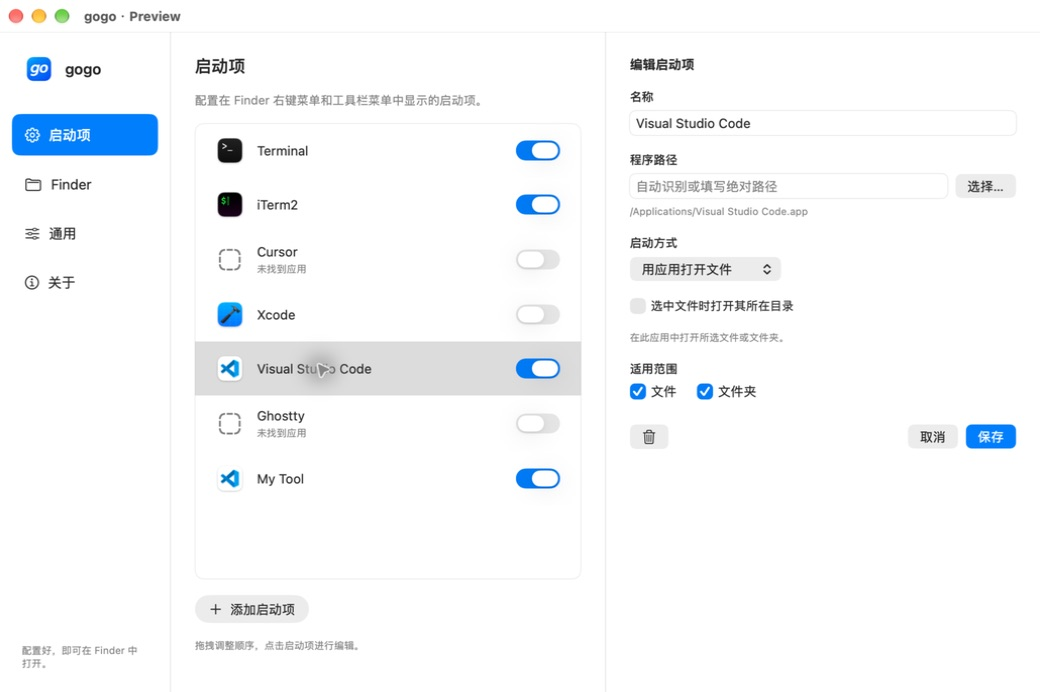
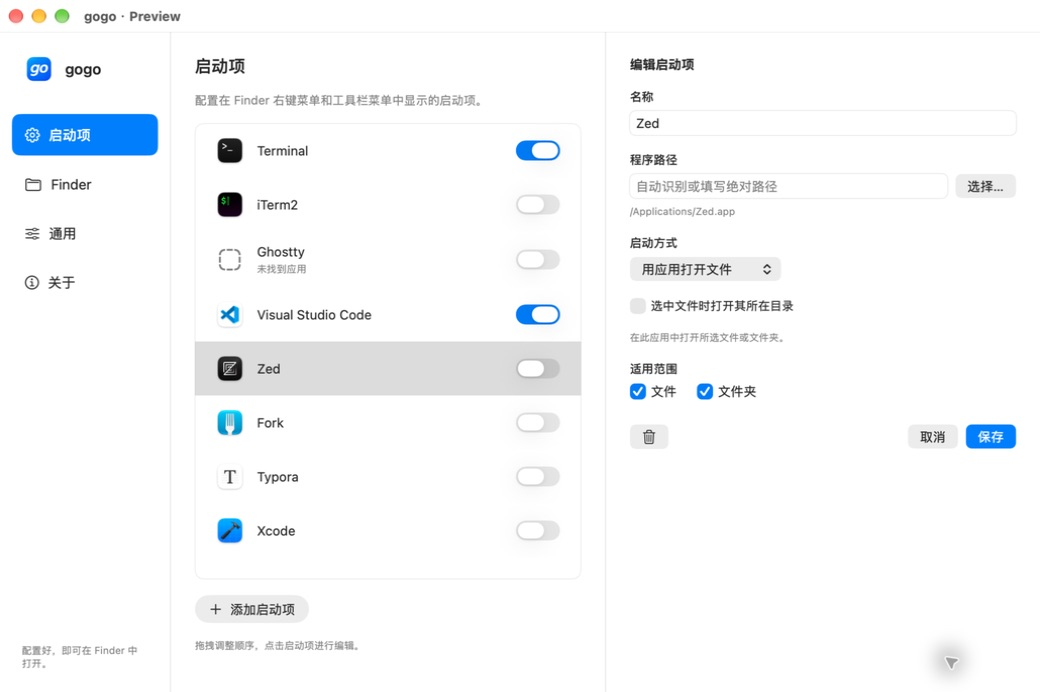
Add Zed Fork and Typora presets and refresh README screenshots

diff --git a/Sources/GogoCore/Configuration.swift b/Sources/GogoCore/Configuration.swift
@@ -39,7 +39,9 @@ public struct Launcher: Codable, Identifiable, Equatable, Sendable {
         Launcher(id: UUID(uuidString: "A0000000-0000-4000-8000-000000000002")!, name: "iTerm2", bundleID: "com.googlecode.iterm2", method: .iTerm, directoriesOnly: true, enabled: false, builtIn: true),
         Launcher(id: UUID(uuidString: "A0000000-0000-4000-8000-000000000003")!, name: "Ghostty", bundleID: "com.mitchellh.ghostty", method: .application, arguments: ["--working-directory={directory}"], directoriesOnly: true, enabled: false, builtIn: true),
         Launcher(id: UUID(uuidString: "A0000000-0000-4000-8000-000000000004")!, name: "Visual Studio Code", bundleID: "com.microsoft.VSCode", builtIn: true),
-        Launcher(id: UUID(uuidString: "A0000000-0000-4000-8000-000000000005")!, name: "Cursor", bundleID: "com.todesktop.230313mzl4w4u92", enabled: false, builtIn: true),
+        Launcher(id: UUID(uuidString: "A0000000-0000-4000-8000-000000000007")!, name: "Zed", bundleID: "dev.zed.Zed", enabled: false, builtIn: true),
+        Launcher(id: UUID(uuidString: "A0000000-0000-4000-8000-000000000008")!, name: "Fork", bundleID: "com.DanPristupov.Fork", directoriesOnly: true, enabled: false, builtIn: true),
+        Launcher(id: UUID(uuidString: "A0000000-0000-4000-8000-000000000009")!, name: "Typora", bundleID: "abnerworks.Typora", enabled: false, builtIn: true),
         Launcher(id: UUID(uuidString: "A0000000-0000-4000-8000-000000000006")!, name: "Xcode", bundleID: "com.apple.dt.Xcode", enabled: false, builtIn: true)
     ]
 

diff --git a/docs/VALIDATION.md b/docs/VALIDATION.md
@@ -12,6 +12,8 @@ Date: September 16, 2026. Environment: macOS 27.0 (26A428), Xcode 27.0 (27A266a)
 - Unsigned Release universal build passed for both targets with arm64 and x86_64. Deployment target remains 15.7. This is build evidence, not runtime evidence for Intel or earlier macOS versions.
 - English and Chinese localization resources have matching keys. English and Simplified Chinese READMEs are maintained together; developer documentation remains English.
 - New configurations follow the system language. On the Chinese-language development system the native UI opens in Chinese. Explicit saved choices remain unchanged.
+- Zed, Fork, and Typora presets use bundle identifiers verified against the installed apps. All three resolve to their actual icons and paths in the native UI. Fork opens directories (or parent directories of selected files). Individual launch/runtime coverage remains pending below.
+- Both README screenshots were recaptured with a fresh default list: eight presets, no Cursor or custom test entries. Existing saved launcher lists are preserved rather than reset by the preset update.
 - Add Launcher is a regular button and directly opens a new custom-launcher editor, without an intermediate menu.
 - In isolated preview, a custom application path and two argument lines were saved through the UI. The resulting configuration file contained the exact path and argument array.
 - English → Simplified Chinese → English was verified in preview. The sidebar, settings content, and application Edit menu update without relaunching. Follow System was also selected and persisted through the native picker.

diff --git a/design-qa.md b/design-qa.md
@@ -11,7 +11,7 @@ Scope: the captured standard-size light-appearance settings UI, with the user's 
 - Additional implementation captures: `docs/screenshots/about-en.png`, `general-en.png`, `general-zh.png`, `general-auto.png`, `launchers-zh.png`, and `finder-en.png`, each 1040 × 692 px.
 - The source and current launcher screenshot were opened together in one comparison input. The source is a multi-window board: compare its upper-left settings window, not the whole board, to the implementation.
 - No pixel-for-pixel or CSS comparison is claimed. This is a native AppKit/SwiftUI app. Captures use one output pixel per logical point; the source board has no authoritative point density.
-- Current main state: the Visual Studio Code preset selected in a reordered list. The English labels and removed implementation details are intentional user-requested changes to the Chinese reference.
+- Current main state: the Zed preset selected in a fresh eight-launcher list, including Fork and Typora. Both README screenshots were recaptured from the native app after updating the presets; no custom test launcher remains. The English labels and removed implementation details are intentional user-requested changes to the Chinese reference.
 - Full-view evidence covers the sidebar/list/inspector hierarchy, native controls, row grouping, primary Save action, and retained logo. The standalone About and General captures provide readable focused evidence for branding and removed copy; an additional crop was unnecessary.
 
 ## Review findings

diff --git a/README.zh-CN.md b/README.zh-CN.md
@@ -14,7 +14,7 @@ gogo 是独立开发的 Swift macOS 项目，使用场景受 [OpenInTerminal](ht
 
 ## 功能
 
-- 内置 Terminal、iTerm2、Ghostty、Visual Studio Code、Cursor、Xcode 启动预设。
+- 内置 Terminal、iTerm2、Ghostty、Visual Studio Code、Zed、Fork、Typora、Xcode 启动预设。
 - 支持自定义应用或可执行文件路径，逐行填写启动参数。
 - Finder 右键子菜单与工具栏菜单，并保留设置入口。
 - 默认跟随系统语言，也可手动选择 English 或简体中文。

diff --git a/README.md b/README.md
@@ -14,7 +14,7 @@ gogo is an independent Swift macOS project inspired by the workflow of [OpenInTe
 
 ## Features
 
-- Configurable presets for Terminal, iTerm2, Ghostty, Visual Studio Code, Cursor, and Xcode.
+- Configurable presets for Terminal, iTerm2, Ghostty, Visual Studio Code, Zed, Fork, Typora, and Xcode.
 - Custom application or executable paths and one argument per line.
 - Finder context submenu and toolbar menu, with a persistent Settings recovery entry.
 - Drag to reorder launchers; click a row to edit.
